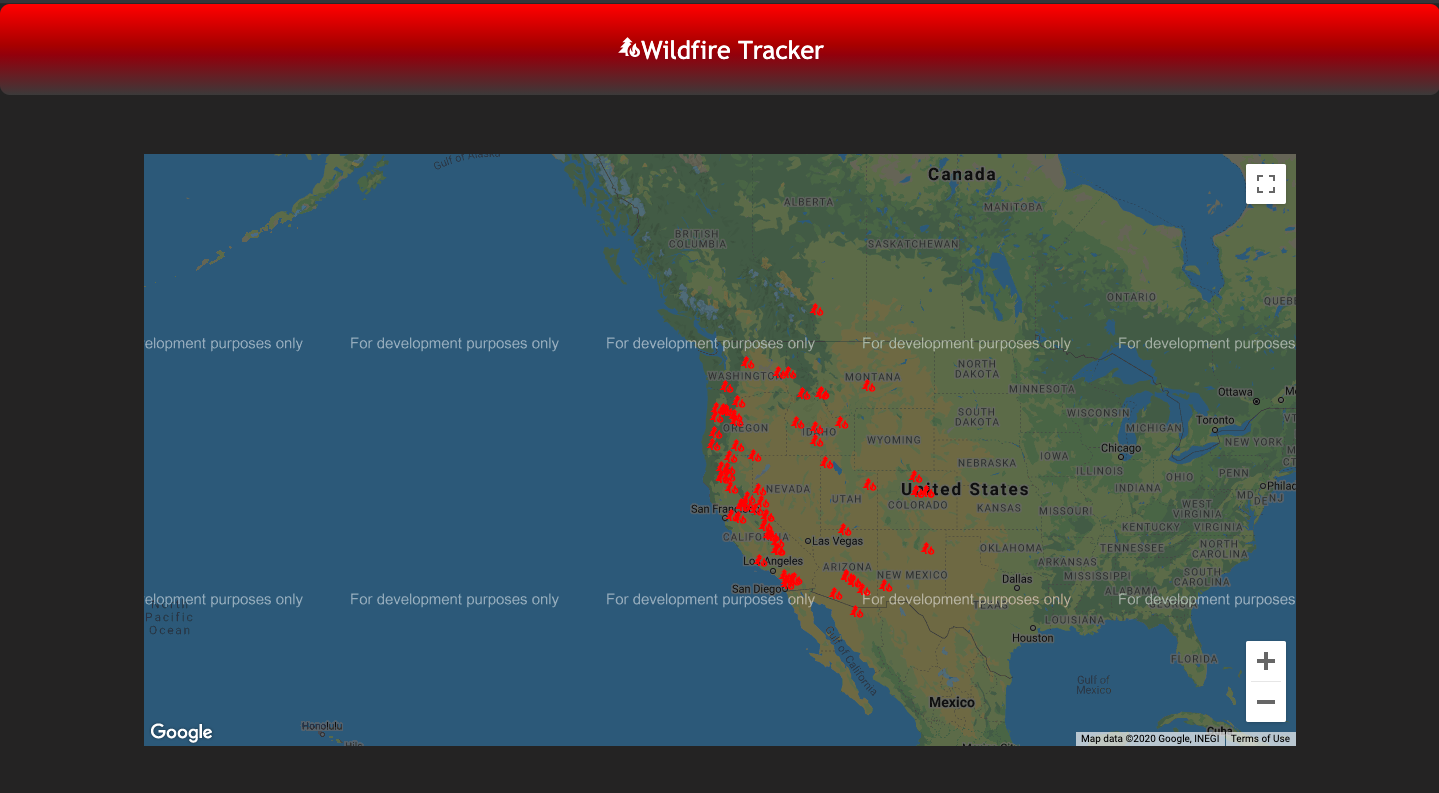
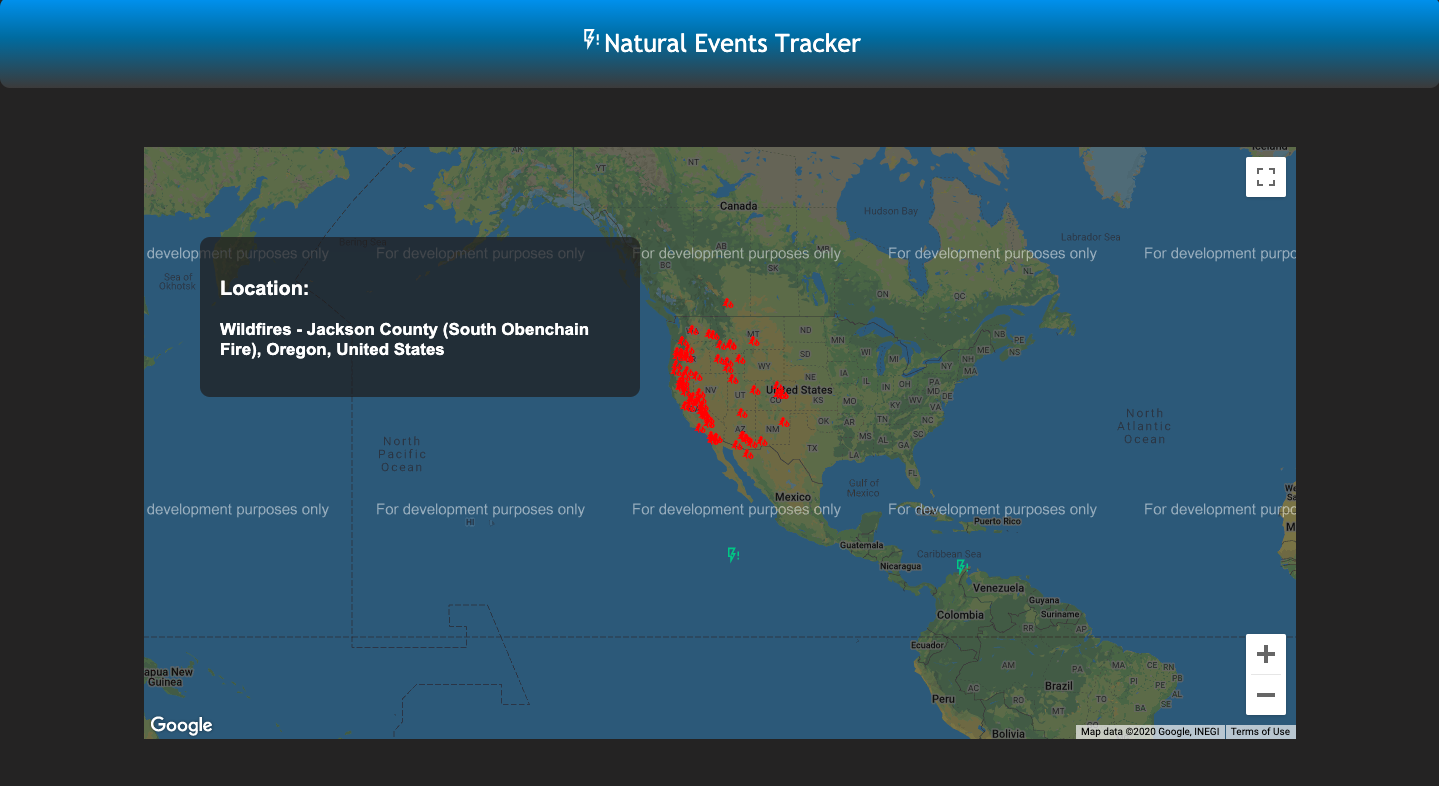
change title and screenshot of readme and web app

diff --git a/public/index.html b/public/index.html
@@ -9,35 +9,11 @@
       name="description"
       content="Web site created using create-react-app"
     />
-    <link rel="apple-touch-icon" href="%PUBLIC_URL%/logo192.png" />
-    <!--
-      manifest.json provides metadata used when your web app is installed on a
-      user's mobile device or desktop. See https://developers.google.com/web/fundamentals/web-app-manifest/
-    -->
-    <link rel="manifest" href="%PUBLIC_URL%/manifest.json" />
-    <!--
-      Notice the use of %PUBLIC_URL% in the tags above.
-      It will be replaced with the URL of the `public` folder during the build.
-      Only files inside the `public` folder can be referenced from the HTML.
-
-      Unlike "/favicon.ico" or "favicon.ico", "%PUBLIC_URL%/favicon.ico" will
-      work correctly both with client-side routing and a non-root public URL.
-      Learn how to configure a non-root public URL by running `npm run build`.
-    -->
-    <title>React App</title>
+    <title>Natural Events Tracker</title>
   </head>
   <body>
     <noscript>You need to enable JavaScript to run this app.</noscript>
     <div id="root"></div>
-    <!--
-      This HTML file is a template.
-      If you open it directly in the browser, you will see an empty page.
-
-      You can add webfonts, meta tags, or analytics to this file.
-      The build step will place the bundled scripts into the <body> tag.
-
-      To begin the development, run `npm start` or `yarn start`.
-      To create a production bundle, use `npm run build` or `yarn build`.
-    -->
+   
   </body>
 </html>
